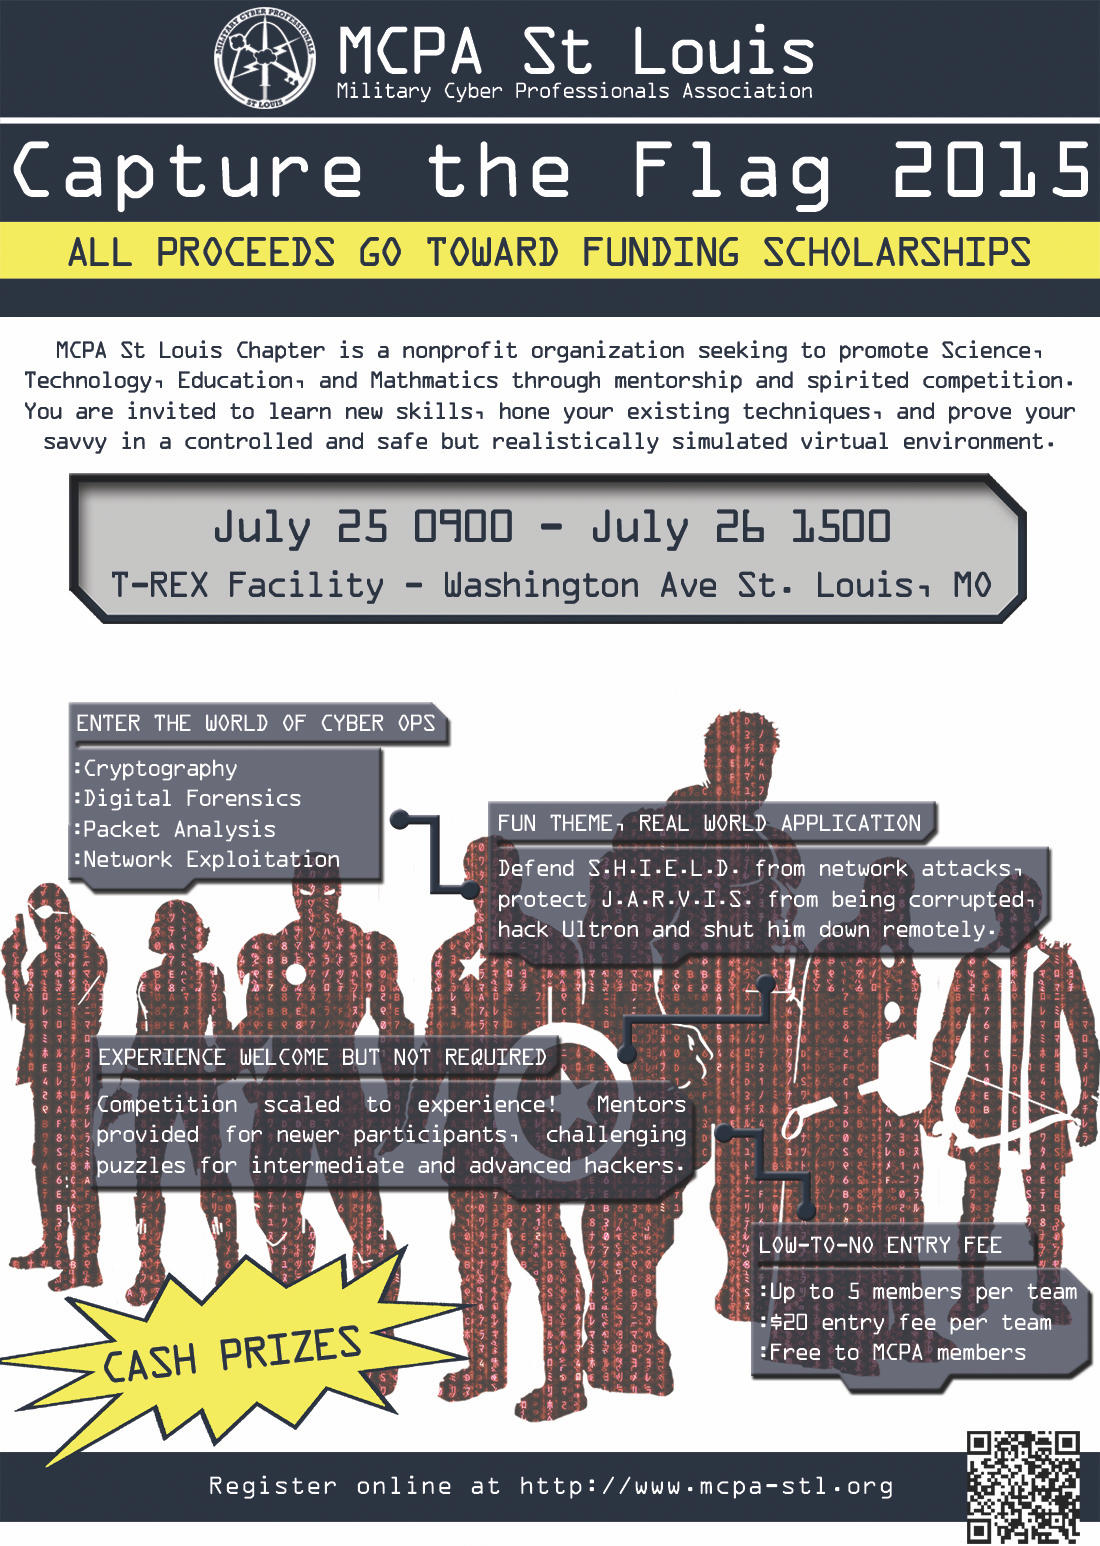
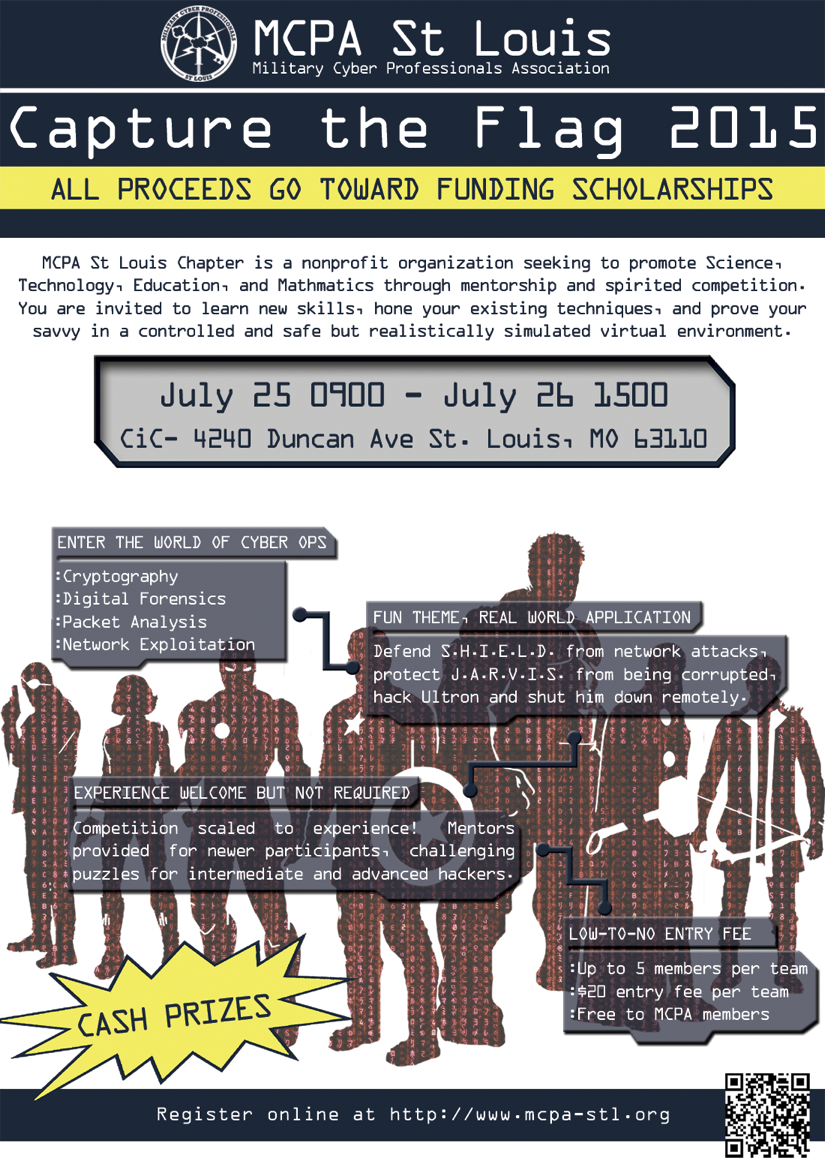
Added sponsorship page and updated flyer

diff --git a/web/js/navbar.js b/web/js/navbar.js
@@ -4,7 +4,8 @@
 
   apiOffline = {
     About: "/about",
-    News: "/news"
+    News: "/news",
+    Sponsorship: "/sponsorship"
   };
 
   teacherLoggedIn = {
@@ -16,11 +17,15 @@
       About: "/about",
       News: "/news"
     },
+    Sponsorship: "/sponsorship"
+  };
+
+  ({
     Account: {
       Manage: "/account",
       Logout: "#"
     }
-  };
+  });
 
   teacherLoggedInNoCompetition = {
     Classroom: "/classroom",
@@ -56,15 +61,20 @@
       About: "/about",
       News: "/news"
     },
+    Sponsorship: "/sponsorship"
+  };
+
+  ({
     Account: {
       Manage: "/account",
       Logout: "#"
     }
-  };
+  });
 
   userNotLoggedIn = {
     About: "/about",
     News: "/news",
+    Sponsorship: "/sponsorship",
     Scoreboard: "/scoreboard",
     Login: "/login"
   };

diff --git a/web/sponsorship.html b/web/sponsorship.html
@@ -1,0 +1,11 @@
+---
+layout: default
+title:
+---
+<div class="container">
+	<div class="row">
+
+		<img src="/img/sponsorship.png" width="792" height="1067">
+                {% include sponsors.html %}
+	</div>
+</div>

diff --git a/web/about.html b/web/about.html
@@ -1,6 +1,6 @@
 ---
 layout: default
-title: About
+title:
 ---
 <div class="container">
 	<div class="row">
